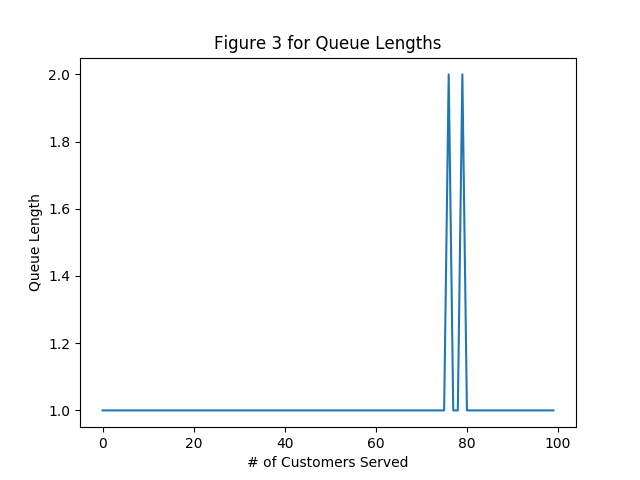
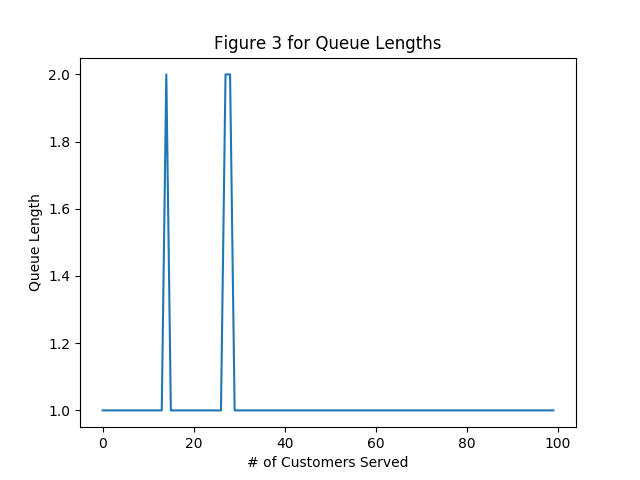
Correctly Running Simulation, need graphs

Changed region(s): [[0.6875, 0.1562, 0.75, 0.875], [0.3438, 0.1562, 0.375, 0.875], [0.25, 0.1562, 0.2812, 0.875]]

diff --git a/Exams/Exam1/Simulation.py b/Exams/Exam1/Simulation.py
@@ -43,13 +43,22 @@ class Simulation():
         self.closes = closes
         self.exam = exam
 
+        self.custArrival = []
+
         self.custs = Customers.Customers(self.closes, ctm, ctM)
         totalCustomers = len(self.custs.getAllCustomers())
         for i in range(totalCustomers):
-            item = [self.custs.getCurrentCustomer(i), 'c' + str(i), 'arr']
-            self.FEL.pushEvent(item)
+
+            time = self.custs.getCurrentCustomer(i)
+            name = 'c' + str(i)
+
+            self.custArrival.append(time)
+
+            FELItem = [time, name, 'arr']
+            self.FEL.pushEvent(FELItem)
 
         self.totalCustomers = len(self.custs.getAllCustomers())
+
 
         # All Servers
     
@@ -92,11 +101,10 @@ class Simulation():
         myIter = 0 
         served = 0
 
-        custArrival = self.FEL.getFEL()
-
-        self.FEL.printFEL()
+        print(self.custArrival)
 
         while 1:
+
             print("\nTime = %d" %(self.simClock))
 
             MDresult = self.mainDesk.serveTheCustomer(self.simClock)
@@ -132,20 +140,24 @@ class Simulation():
             for i in range(len(self.BOServers)):
                 self.BOServers[i].serveTheCustomer()
 
-            
-            if custArrival[myIter][0] == self.simClock:
 
-                self.MDServerQueue.append(custArrival[myIter])
+
+
+
+
+
+            if self.custArrival[myIter] == self.simClock:
+
+                self.MDServerQueue.append(self.FEL.popEvent())
                 # self.queueLengths.append(len(self.MDServerQueue))
 
                 if self.MDmaxQueueLengths < len(self.MDServerQueue):
                     self.MDmaxQueueLengths = len(self.MDServerQueue)
 
-                # print("Line length %d" % len(self.queue))
-
                 myIter += 1
                 if myIter == self.totalCustomers:
-                    myIter = self.totalCustomers - 1
+                    myIter -= 1 # avoids out of bound access
+
 
             if (not self.mainDesk.getBusyState() and len(self.MDServerQueue) > 0):
                 customer = self.MDServerQueue.popleft()
@@ -155,8 +167,8 @@ class Simulation():
                 # print("what the frick")
                 # print(stop)
                 # print("why are you being crap")
-                self.FEL.pushEvent(start)
-                self.FEL.pushEvent(stop)
+                # self.FEL.pushEvent(start)
+                # self.FEL.pushEvent(stop)
 
             for i in range(len(self.DLServers)):
                 if (not self.DLServers[i].getBusyState() and len(self.DLServerQueue) > 0):
@@ -168,7 +180,7 @@ class Simulation():
                     print(stop)
                     self.DLServers[i].serveTheCustomer()
                     print("Server %s is FINALLY DOING SOMETHING USEFUL!!!" %(self.DLServers[i].getServerID()))
-                    # self.servedCustomers += 1
+                    served += 1
 
             for i in range(len(self.VRServers)):
                 if (not self.VRServers[i].getBusyState() and len(self.VRServerQueue) > 0):
@@ -181,7 +193,7 @@ class Simulation():
                     print(stop)
                     self.VRServers[i].serveTheCustomer()
                     print("Server %s is FINALLY DOING SOMETHING USEFUL!!!" %(self.VRServers[i].getServerID()))
-
+                    served += 1
 
             for i in range(len(self.BOServers)):
                 if (not self.BOServers[i].getBusyState() and len(self.BOServerQueue) > 0):
@@ -194,6 +206,7 @@ class Simulation():
                     print(stop)
                     self.BOServers[i].serveTheCustomer()
                     print("Server %s is FINALLY DOING SOMETHING USEFUL!!!" %(self.BOServers[i].getServerID()))
+                    served += 1
 
             print('\n')
             print("MD server queue = %d" %(len(self.MDServerQueue)))
@@ -201,8 +214,10 @@ class Simulation():
             print("VR server queue = %d" %(len(self.VRServerQueue)))
             print("BO server queue = %d" %(len(self.BOServerQueue)))
 
-            time.sleep(.5)
-            self.simClock += 1 
+            time.sleep(.008)
+            print(self.totalCustomers)
+            print(served)
+            self.simClock += 1
             # if (not self.server1.getBusyState() and not self.server2.getBusyState() and self.servedCustomers == self.totalCustomers):
             #     break
 

diff --git a/Homework/HW2/Simulation.py b/Homework/HW2/Simulation.py
@@ -141,7 +141,7 @@ class Simulation():
                 self.beginServing1()
                 self.serve1()
                 self.servedCustomers += 1
-                print("\nServer One Now serving next customer at time %d.\n" % (self.simClock))
+                # print("\nServer One Now serving next customer at time %d.\n" % (self.simClock))
 
             if (not self.server2.getBusyState() and len(self.queue) > 0):
                 self.queue.popleft()
@@ -149,7 +149,7 @@ class Simulation():
                 self.serve2()
                 self.servedCustomers += 1
 
-                print("\nServer Two Now serving next customer at time %d.\n" % (self.simClock))
+                # print("\nServer Two Now serving next customer at time %d.\n" % (self.simClock))
 
             # else:
 
@@ -160,7 +160,7 @@ class Simulation():
             ##############################################################################
             ''' Uncomment print functions and change speed to see results in real time!'''
             ##############################################################################
-            time.sleep(.25) # 1000 iterations/simulation seconds per second. Used to quickly speed up a simulation. 
+            time.sleep(.0001) # 1000 iterations/simulation seconds per second. Used to quickly speed up a simulation. 
 
             if (not self.server1.getBusyState() and not self.server2.getBusyState() and self.servedCustomers == self.totalCustomers):
                 break

diff --git a/Exams/Exam1/FEL.py b/Exams/Exam1/FEL.py
@@ -11,7 +11,7 @@ class FEL(object):
 		# 0th element = int type
 		# 1st element = string type
 		# 2nd element = event type
-		self.futureEventList = deque( [] ) 
+		self.futureEventList = deque() 
 
 	def pushEvent(self, item):
 		self.futureEventList.append(item)

diff --git a/Exams/Exam1/Run.py b/Exams/Exam1/Run.py
@@ -16,7 +16,7 @@ import FEL
 
 
 m1 = MainDesk.MainDesk(1,4, 'MD', True)
-s1 = Simulation.Simulation(1,4,   1,4,  10,20,   10,20  ,15,40, True, 480, 450)
+s1 = Simulation.Simulation(1,4,   1,4,  10,20,   10,30  ,15,40, True, 480, 450)
 s1.startSim("Please Work")
 
 
